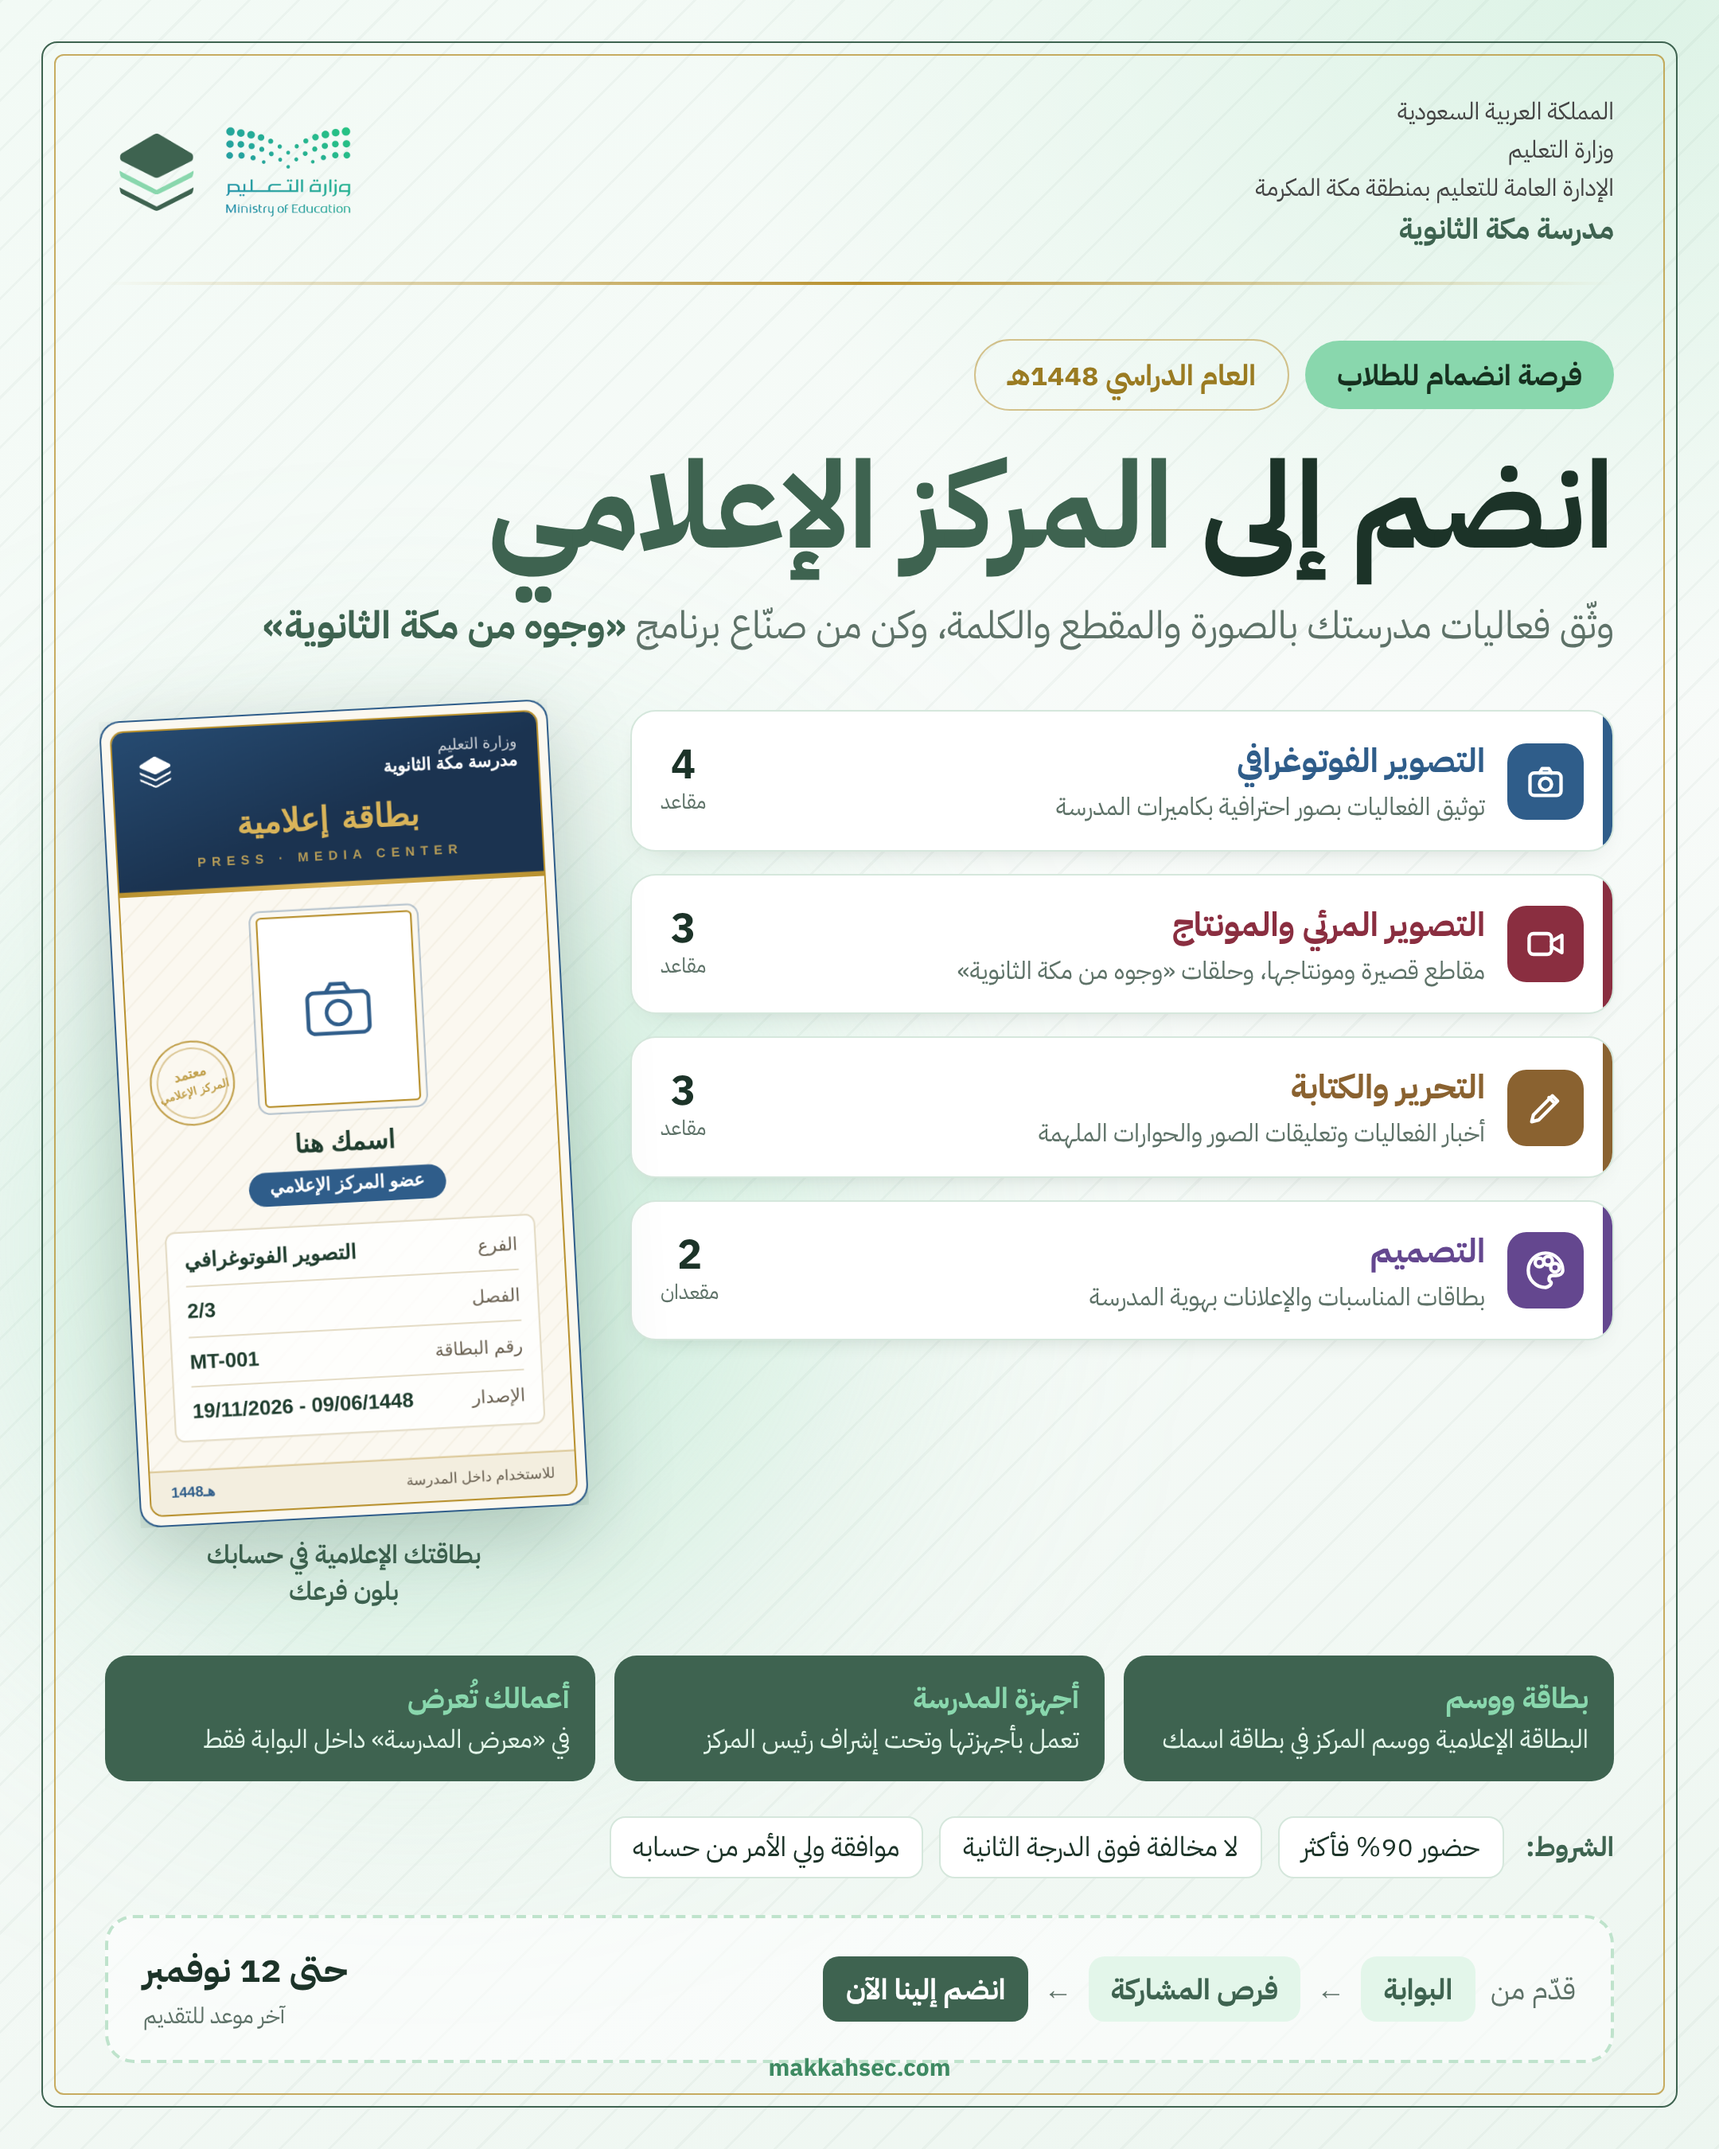
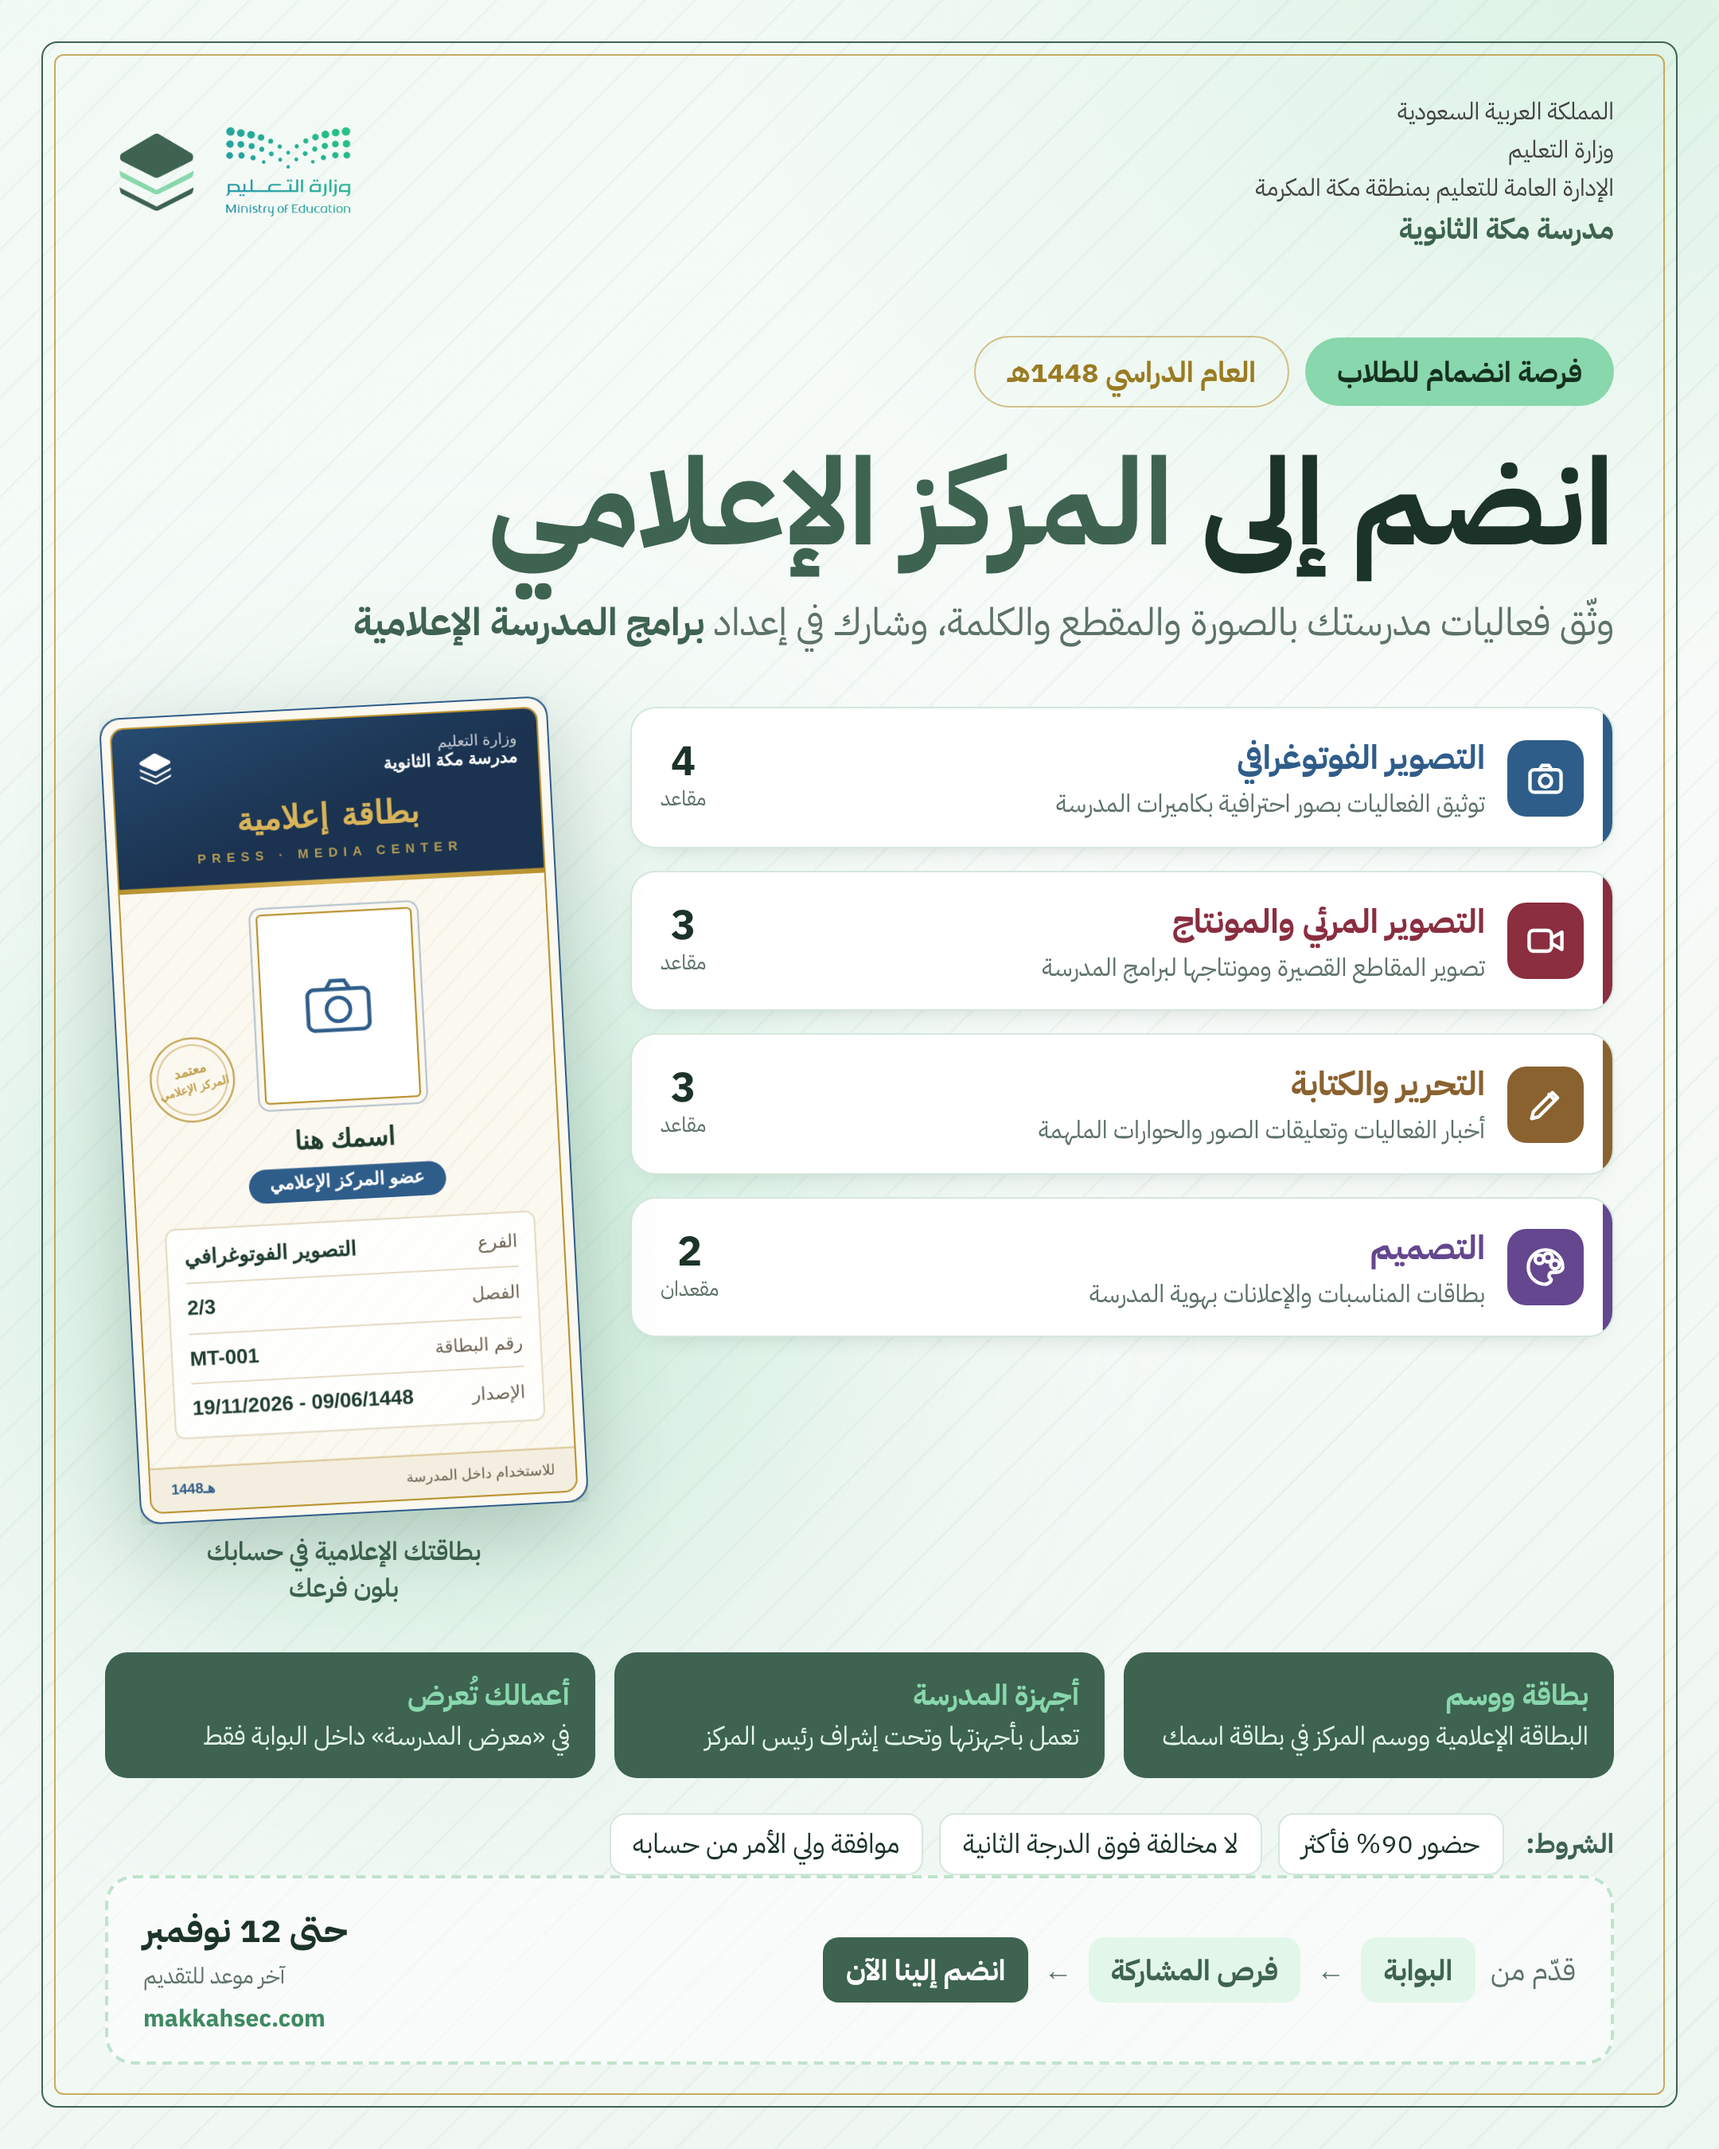
منشور المركز الإعلامي: برامج المدرسة الإعلامية بصفة عامة بدل برنامج بعينه، والموقع داخل صندوق التذييل
Claude-Session: https://claude.ai/code/session_01DneurmHLr5mfaZuCWCY8oB

diff --git a/docs/media-center-post/post.html b/docs/media-center-post/post.html
@@ -58,7 +58,7 @@ h1 em{font-style:normal;color:#3E6350}
 .dl{text-align:left}
 .dl b{display:block;font-size:22px;color:#1C3328}
 .dl span{font-size:14px;color:#5E7268}
-.site{position:absolute;bottom:40px;left:50%;transform:translateX(-50%);font-size:15px;font-weight:700;color:#3E8A62;direction:ltr}
+.dl .url{display:block;margin-top:4px;font-size:15px;font-weight:700;color:#3E8A62;direction:ltr}
 </style></head><body>
 <!-- منشور الانضمام إلى المركز الإعلامي (١٠٨٠ × ١٣٥٠) بالهوية الرسمية الفاتحة: الفروع الأربعة بألوانها ومقاعدها،
      والبطاقة الإعلامية، والشروط، وطريق التقديم. تُلتقط الصورة بـ Playwright إلى media-center-post.png. -->
@@ -72,14 +72,14 @@ h1 em{font-style:normal;color:#3E6350}
 
  <div class="kick"><span class="pill">فرصة انضمام للطلاب</span><span class="pill o">العام الدراسي 1448هـ</span></div>
  <h1>انضم إلى <em>المركز الإعلامي</em></h1>
- <p class="sub">وثّق فعاليات مدرستك بالصورة والمقطع والكلمة، وكن من صنّاع برنامج <b>«وجوه من مكة الثانوية»</b></p>
+ <p class="sub">وثّق فعاليات مدرستك بالصورة والمقطع والكلمة، وشارك في إعداد <b>برامج المدرسة الإعلامية</b></p>
 
  <div class="mid">
   <div class="br">
    <div class="b" style="--c:#2F5D8A"><i><svg viewBox="0 0 24 24"><rect x="3" y="7" width="18" height="13" rx="2.5"/><circle cx="12" cy="13.5" r="3.5"/><path d="M8.5 7l1.5-2.5h4L15.5 7"/></svg></i>
     <div><b>التصوير الفوتوغرافي</b><p>توثيق الفعاليات بصور احترافية بكاميرات المدرسة</p></div><span class="s"><strong>4</strong>مقاعد</span></div>
    <div class="b" style="--c:#8A2E40"><i><svg viewBox="0 0 24 24"><rect x="2.5" y="6" width="13" height="12" rx="2.5"/><path d="M15.5 10.5l6-3.5v10l-6-3.5"/></svg></i>
-    <div><b>التصوير المرئي والمونتاج</b><p>مقاطع قصيرة ومونتاجها، وحلقات «وجوه من مكة الثانوية»</p></div><span class="s"><strong>3</strong>مقاعد</span></div>
+    <div><b>التصوير المرئي والمونتاج</b><p>تصوير المقاطع القصيرة ومونتاجها لبرامج المدرسة</p></div><span class="s"><strong>3</strong>مقاعد</span></div>
    <div class="b" style="--c:#8A6230"><i><svg viewBox="0 0 24 24"><path d="M4 20l4-1 11-11-3-3L5 16z"/><path d="M14 6l3 3"/></svg></i>
     <div><b>التحرير والكتابة</b><p>أخبار الفعاليات وتعليقات الصور والحوارات الملهمة</p></div><span class="s"><strong>3</strong>مقاعد</span></div>
    <div class="b" style="--c:#64478F"><i><svg viewBox="0 0 24 24"><circle cx="13.5" cy="6.5" r="2.5"/><circle cx="17.5" cy="10.5" r="2.5"/><circle cx="8.5" cy="7.5" r="2.5"/><path d="M12 22a10 10 0 1 1 10-10c0 2-2 3-4 3h-2a2 2 0 0 0-1 3.7c.6.6.4 2.3-3 3.3z"/></svg></i>
@@ -98,8 +98,7 @@ h1 em{font-style:normal;color:#3E6350}
 
  <div class="foot">
   <div class="path"><span class="ar">قدّم من</span><span class="ch">البوابة</span><span class="ar">←</span><span class="ch">فرص المشاركة</span><span class="ar">←</span><span class="ch go">انضم إلينا الآن</span></div>
-  <div class="dl"><b>حتى 12 نوفمبر</b><span>آخر موعد للتقديم</span></div>
+  <div class="dl"><b>حتى 12 نوفمبر</b><span>آخر موعد للتقديم</span><span class="url">makkahsec.com</span></div>
  </div>
 </div>
-<div class="site">makkahsec.com</div>
 </body></html>
